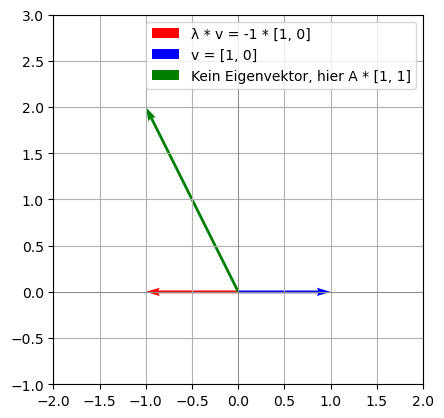
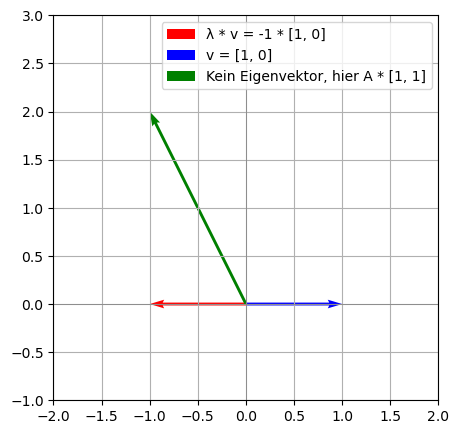
fixed size

Changed region(s): [[0.0293, 0.0, 0.9955, 0.9952]]

diff --git a/plot_eigen1.py b/plot_eigen1.py
@@ -7,7 +7,7 @@ A = np.array([[2, 1],
 v = np.array([1, 1])
 lambda_v = A @ v  # das Gleiche wie Eigenwert 3 * v
 
-plt.figure()
+plt.figure(figsize=(5, 5))
 ax = plt.gca()
 ax.set_xlim(-1, 5)
 ax.set_ylim(-1, 5)

diff --git a/plot_eigen2.py b/plot_eigen2.py
@@ -9,7 +9,7 @@ lambda_v = A @ v  # das Gleiche wie Eigenwert -1 * v
 
 random_v = A @ np.array([1, 1])
 
-plt.figure()
+plt.figure(figsize=(5, 5))
 ax = plt.gca()
 ax.set_xlim(-2, 2)
 ax.set_ylim(-1, 3)
